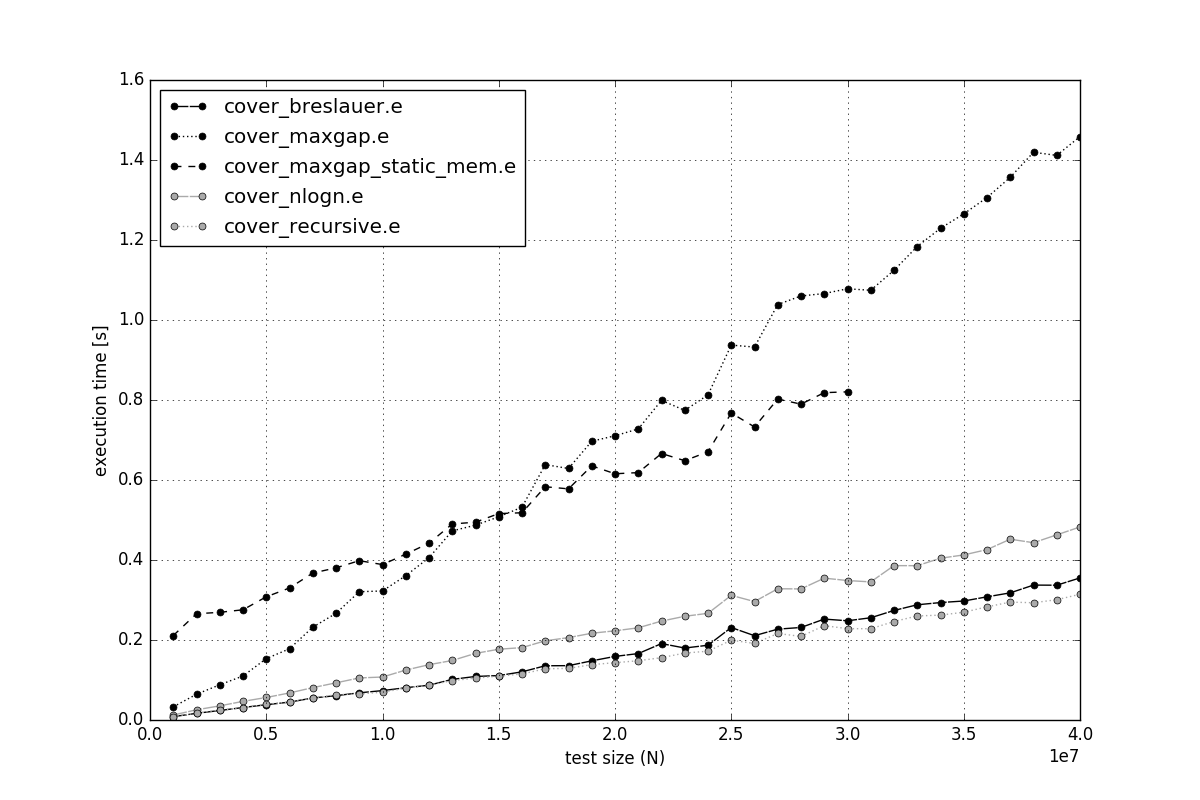
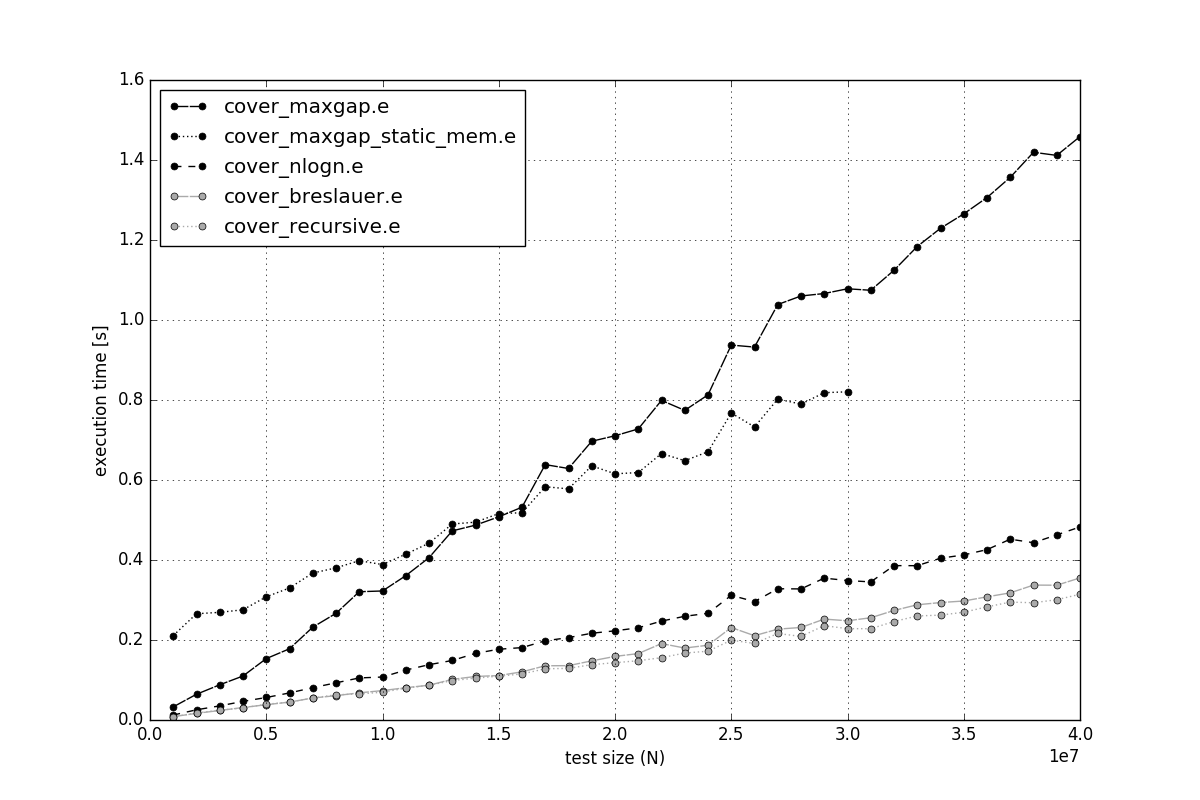
sorting colors

diff --git a/cover_timetests/plot_summary.py b/cover_timetests/plot_summary.py
@@ -55,12 +55,14 @@ def plot_size_of_part(part):
     results = parse_report_per_label_size(part)
 
     avg_dict = dict_dict_map(results, list_avg)
+    plots = [(label, list(d.items())) for label, d in avg_dict.items()]
 
-    plots = {label: list(d.items()) for label, d in avg_dict.items()}
+    plots.sort(key=lambda x: max(y for _, y in x[1]), reverse=True)
+    print([x for x, _ in plots])
 
     labels = []
 
-    for label, data in sorted(plots.items()):
+    for label, data in plots:
         labels.append(label)
         print(label, data)
         plot_from_list_of_pairs(data)
